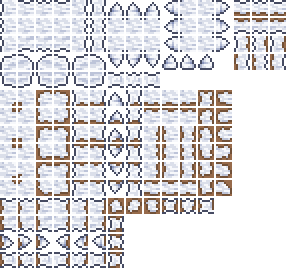
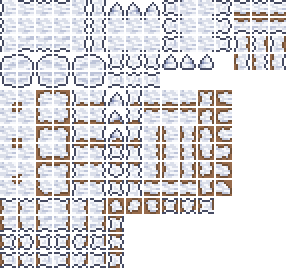
Snow and sand

diff --git a/Projectiles/CreamsandSandGunProjectile.cs b/Projectiles/CreamsandSandGunProjectile.cs
@@ -1,0 +1,81 @@
+using Microsoft.Xna.Framework;
+using System;
+using System.Collections.Generic;
+using System.Linq;
+using System.Text;
+using System.Threading.Tasks;
+using Terraria;
+using Terraria.Audio;
+using Terraria.ID;
+using Terraria.ModLoader;
+using TheConfectionRebirth.Tiles;
+
+namespace TheConfectionRebirth.Projectiles {
+	public class CreamsandSandGunProjectile : ModProjectile {
+		public override string Texture => "TheConfectionRebirth/Projectiles/CreamsandProjectile";
+
+		public override void SetStaticDefaults() {
+			ProjectileID.Sets.FallingBlockDoesNotFallThroughPlatforms[Type] = true;
+			ProjectileID.Sets.ForcePlateDetection[Type] = true;
+			ProjectileID.Sets.FallingBlockTileItem[Type] = new(ModContent.TileType<Creamsand>());
+		}
+
+		public override void SetDefaults() {
+			Projectile.knockBack = 6f;
+			Projectile.width = 10;
+			Projectile.height = 10;
+			Projectile.aiStyle = -1;
+			Projectile.friendly = true;
+			Projectile.penetrate = -1;
+			Projectile.extraUpdates = 1;
+		}
+
+		public override void AI() {
+			if (Main.rand.NextBool(2)) {
+				int i = Dust.NewDust(Projectile.position, Projectile.width, Projectile.height, ModContent.DustType<Dusts.CreamsandDust>(), 0f, Projectile.velocity.Y * 0.5f);
+				Main.dust[i].velocity.X *= 0.2f;
+			}
+			Projectile.ai[1]++;
+			if (Projectile.ai[1] >= 60) {
+				Projectile.ai[1] = 60;
+				Projectile.velocity.Y += 0.2f;
+			}
+			Projectile.rotation += 0.1f;
+			if (Projectile.velocity.Y > 10f) {
+				Projectile.velocity.Y = 10f;
+			}
+		}
+
+		public override void OnKill(int timeLeft) {
+			Point p = Projectile.Center.ToTileCoordinates();
+			if (p.X >= 0 && p.X < Main.maxTilesX && p.Y >= 0 && p.Y < Main.maxTilesY) {
+				Tile t = Main.tile[p.X, p.Y];
+				if (t.IsHalfBlock && Projectile.velocity.Y > 0f && Math.Abs(Projectile.velocity.Y) > Math.Abs(Projectile.velocity.X)) {
+					t = Main.tile[p.X, --p.Y];
+				}
+				if (Main.tileCut[t.TileType]) {
+					WorldGen.KillTile(p.X, p.Y);
+				}
+				if (!Main.tileSolid[t.TileType] || TileID.Sets.IsATreeTrunk[t.TileType]) {
+					Item.NewItem(WorldGen.GetItemSource_FromTileBreak(p.X, p.Y), p.X * 16, p.Y * 16, 16, 16, ModContent.ItemType<Items.Placeable.Creamsand>());
+					SoundEngine.PlaySound(SoundID.Dig, Projectile.Center);
+				}
+				if (!t.HasTile && t.TileType != TileID.MinecartTrack) {
+					Tile tBelow = Main.tile[p.X, p.Y + 1];
+					if (tBelow.Slope != SlopeType.Solid) {
+						tBelow.Slope = SlopeType.Solid;
+					}
+					if (tBelow.IsHalfBlock) tBelow.IsHalfBlock = false;
+					WorldGen.PlaceTile(p.X, p.Y, ModContent.TileType<Tiles.Creamsand>(), forced: true);
+					WorldGen.SquareTileFrame(p.X, p.Y);
+				}
+			}
+		}
+
+		public override bool TileCollideStyle(ref int width, ref int height, ref bool fallThrough, ref Vector2 hitboxCenterFrac) {
+			fallThrough = !ProjectileID.Sets.FallingBlockDoesNotFallThroughPlatforms[Projectile.type];
+			return true;
+		}
+		public override bool? CanDamage() => Projectile.localAI[1] != -1f;
+	}
+}

diff --git a/Projectiles/CreamsandProjectile.cs b/Projectiles/CreamsandProjectile.cs
@@ -1,0 +1,75 @@
+using Microsoft.Xna.Framework;
+using System;
+using System.Collections.Generic;
+using System.Linq;
+using System.Text;
+using System.Threading.Tasks;
+using Terraria;
+using Terraria.Audio;
+using Terraria.ID;
+using Terraria.ModLoader;
+using TheConfectionRebirth.Tiles;
+
+namespace TheConfectionRebirth.Projectiles {
+	public class CreamsandProjectile : ModProjectile {
+		public override void SetStaticDefaults() {
+			ProjectileID.Sets.FallingBlockDoesNotFallThroughPlatforms[Type] = true;
+			ProjectileID.Sets.ForcePlateDetection[Type] = true;
+			ProjectileID.Sets.FallingBlockTileItem[Type] = new(ModContent.TileType<Creamsand>(), ModContent.ItemType<Items.Placeable.Creamsand>());
+		}
+
+		public override void SetDefaults() {
+			Projectile.knockBack = 6f;
+			Projectile.width = 10;
+			Projectile.height = 10;
+			Projectile.aiStyle = -1;
+			Projectile.friendly = true;
+			Projectile.hostile = true;
+			Projectile.penetrate = -1;
+		}
+
+		public override void AI() {
+			if (Main.rand.NextBool(2)) {
+				int i = Dust.NewDust(Projectile.position, Projectile.width, Projectile.height, ModContent.DustType<Dusts.CreamsandDust>(), 0f, Projectile.velocity.Y * 0.5f);
+				Main.dust[i].velocity.X *= 0.2f;
+			}
+			Projectile.velocity.Y += 0.41f;
+			Projectile.rotation += 0.1f;
+			if (Projectile.velocity.Y > 10f) {
+				Projectile.velocity.Y = 10f;
+			}
+		}
+
+		public override void OnKill(int timeLeft) {
+			Point p = Projectile.Center.ToTileCoordinates();
+			if (p.X >= 0 && p.X < Main.maxTilesX && p.Y >= 0 && p.Y < Main.maxTilesY) {
+				Tile t = Main.tile[p.X, p.Y];
+				if (t.IsHalfBlock && Projectile.velocity.Y > 0f && Math.Abs(Projectile.velocity.Y) > Math.Abs(Projectile.velocity.X)) {
+					t = Main.tile[p.X, --p.Y];
+				}
+				if (Main.tileCut[t.TileType]) {
+					WorldGen.KillTile(p.X, p.Y);
+				}
+				if (!Main.tileSolid[t.TileType] || TileID.Sets.IsATreeTrunk[t.TileType]) {
+					Item.NewItem(WorldGen.GetItemSource_FromTileBreak(p.X, p.Y), p.X * 16, p.Y * 16, 16, 16, ModContent.ItemType<Items.Placeable.Creamsand>());
+					SoundEngine.PlaySound(SoundID.Dig, Projectile.Center);
+				}
+				if (!t.HasTile && t.TileType != TileID.MinecartTrack) {
+					Tile tBelow = Main.tile[p.X, p.Y + 1];
+					if (tBelow.Slope != SlopeType.Solid) {
+						tBelow.Slope = SlopeType.Solid;
+					}
+					if (tBelow.IsHalfBlock) tBelow.IsHalfBlock = false;
+					WorldGen.PlaceTile(p.X, p.Y, ModContent.TileType<Tiles.Creamsand>(), forced: true);
+					WorldGen.SquareTileFrame(p.X, p.Y);
+				}
+			}
+		}
+
+		public override bool TileCollideStyle(ref int width, ref int height, ref bool fallThrough, ref Vector2 hitboxCenterFrac) {
+			fallThrough = !ProjectileID.Sets.FallingBlockDoesNotFallThroughPlatforms[Projectile.type];
+			return true;
+		}
+		public override bool? CanDamage() => Projectile.localAI[1] != -1f;
+	}
+}

diff --git a/Tiles/Creamsand.cs b/Tiles/Creamsand.cs
@@ -1,0 +1,39 @@
+using Microsoft.Xna.Framework;
+using Terraria;
+using Terraria.ID;
+using Terraria.ModLoader;
+using TheConfectionRebirth.Dusts;
+using TheConfectionRebirth.Projectiles;
+
+namespace TheConfectionRebirth.Tiles
+{
+	public class Creamsand : ModTile
+	{
+		public override void SetStaticDefaults() {
+			Main.tileBrick[Type] = true;
+			Main.tileSand[Type] = true;
+			Main.tileBlockLight[Type] = true;
+			Main.tileSolid[Type] = true;
+			Main.tileMergeDirt[Type] = true;
+			TileID.Sets.Conversion.Sand[Type] = true; 
+			TileID.Sets.ForAdvancedCollision.ForSandshark[Type] = true;
+			TileID.Sets.CanBeDugByShovel[Type] = true;
+			TileID.Sets.Falling[Type] = true;
+			TileID.Sets.Suffocate[Type] = true;
+			TileID.Sets.FallingBlockProjectile[Type] = new TileID.Sets.FallingBlockProjectileInfo(ModContent.ProjectileType<CreamsandProjectile>(), 10);
+			TileID.Sets.CanBeClearedDuringOreRunner[Type] = true;
+			ConfectionIDs.Sets.ConfectionBiomeSight[Type] = true;
+			MineResist = 0.5f;
+			DustType = ModContent.DustType<CreamsandDust>();
+			AddMapEntry(new Color(99, 57, 46));
+		}
+
+		public override bool HasWalkDust() {
+			return Main.rand.NextBool(3);
+		}
+
+		public override void WalkDust(ref int dustType, ref bool makeDust, ref Color color) {
+			dustType = DustType;
+		}
+	}
+}

diff --git a/Tiles/CreamBlock.cs b/Tiles/CreamBlock.cs
@@ -1,0 +1,31 @@
+using Microsoft.Xna.Framework;
+using Terraria;
+using Terraria.ID;
+using Terraria.ModLoader;
+using TheConfectionRebirth.Dusts;
+
+namespace TheConfectionRebirth.Tiles
+{
+	public class CreamBlock : ModTile
+	{
+		public override void SetStaticDefaults()
+		{
+			Main.tileMergeDirt[Type] = true;
+			Main.tileSolid[Type] = true;
+			Main.tileBrick[Type] = true;
+			Main.tileShine2[Type] = true;
+			Main.tileBlockLight[Type] = true;
+			AddMapEntry(new Color(219, 223, 234));
+			TileID.Sets.Conversion.Snow[Type] = true;
+			TileID.Sets.CanBeDugByShovel[Type] = true;
+			TileID.Sets.Snow[Type] = true;
+			TileID.Sets.IcesSnow[Type] = true;
+			TileID.Sets.ChecksForMerge[Type] = true;
+			TileID.Sets.CanBeClearedDuringOreRunner[Type] = true;
+			ConfectionIDs.Sets.ConfectionBiomeSight[Type] = true;
+			Main.tileMerge[Type][ModContent.TileType<Creamstone>()] = true;
+			DustType = ModContent.DustType<CreamDust>();
+			HitSound = SoundID.Item48;
+		}
+	}
+}

diff --git a/Items/Placeable/Creamsand.cs b/Items/Placeable/Creamsand.cs
@@ -1,0 +1,31 @@
+using Terraria;
+using Terraria.GameContent;
+using Terraria.ID;
+using Terraria.ModLoader;
+
+namespace TheConfectionRebirth.Items.Placeable
+{
+	public class Creamsand : ModItem
+	{
+		public override void SetStaticDefaults() {
+			Item.ResearchUnlockCount = 100;
+			ItemID.Sets.SandgunAmmoProjectileData[Type] = new(ModContent.ProjectileType<Projectiles.CreamsandSandGunProjectile>(), 10);
+			ItemTrader.ChlorophyteExtractinator.AddOption_OneWay(Type, 1, ItemID.SandBlock, 1);
+		}
+
+		public override void SetDefaults() {
+			Item.useStyle = ItemUseStyleID.Swing;
+			Item.useTurn = true;
+			Item.useAnimation = 15;
+			Item.useTime = 10;
+			Item.autoReuse = true;
+			Item.maxStack = 9999;
+			Item.consumable = true;
+			Item.createTile = ModContent.TileType<Tiles.Creamsand>();
+			Item.width = 12;
+			Item.height = 12;
+			Item.ammo = AmmoID.Sand;
+			Item.notAmmo = true;
+		}
+	}
+}

diff --git a/Items/Placeable/CreamBlock.cs b/Items/Placeable/CreamBlock.cs
@@ -1,0 +1,32 @@
+using Terraria.ID;
+using Terraria.ModLoader;
+using Terraria.GameContent.Creative;
+using Terraria;
+using Terraria.GameContent;
+
+namespace TheConfectionRebirth.Items.Placeable
+{
+	public class CreamBlock : ModItem
+	{
+		public override void SetStaticDefaults()
+		{
+			CreativeItemSacrificesCatalog.Instance.SacrificeCountNeededByItemId[Type] = 100;
+
+			ItemTrader.ChlorophyteExtractinator.AddOption_OneWay(Type, 1, ItemID.SnowBlock, 1);
+		}
+
+		public override void SetDefaults()
+		{
+			Item.useStyle = ItemUseStyleID.Swing;
+			Item.useTurn = true;
+			Item.useAnimation = 15;
+			Item.useTime = 10;
+			Item.autoReuse = true;
+			Item.maxStack = 9999;
+			Item.consumable = true;
+			Item.createTile = ModContent.TileType<Tiles.CreamBlock>();
+			Item.width = 12;
+			Item.height = 12;
+		}
+	}
+}

diff --git a/Dusts/CreamDust.cs b/Dusts/CreamDust.cs
@@ -1,0 +1,15 @@
+using Terraria;
+using Terraria.ModLoader;
+
+namespace TheConfectionRebirth.Dusts
+{
+	public class CreamDust : ModDust
+	{
+		public override void OnSpawn(Dust dust) {
+			dust.velocity *= 0.4f;
+			dust.noGravity = false;
+			dust.noLight = true;
+			dust.scale *= 1f;
+		}
+	}
+}
